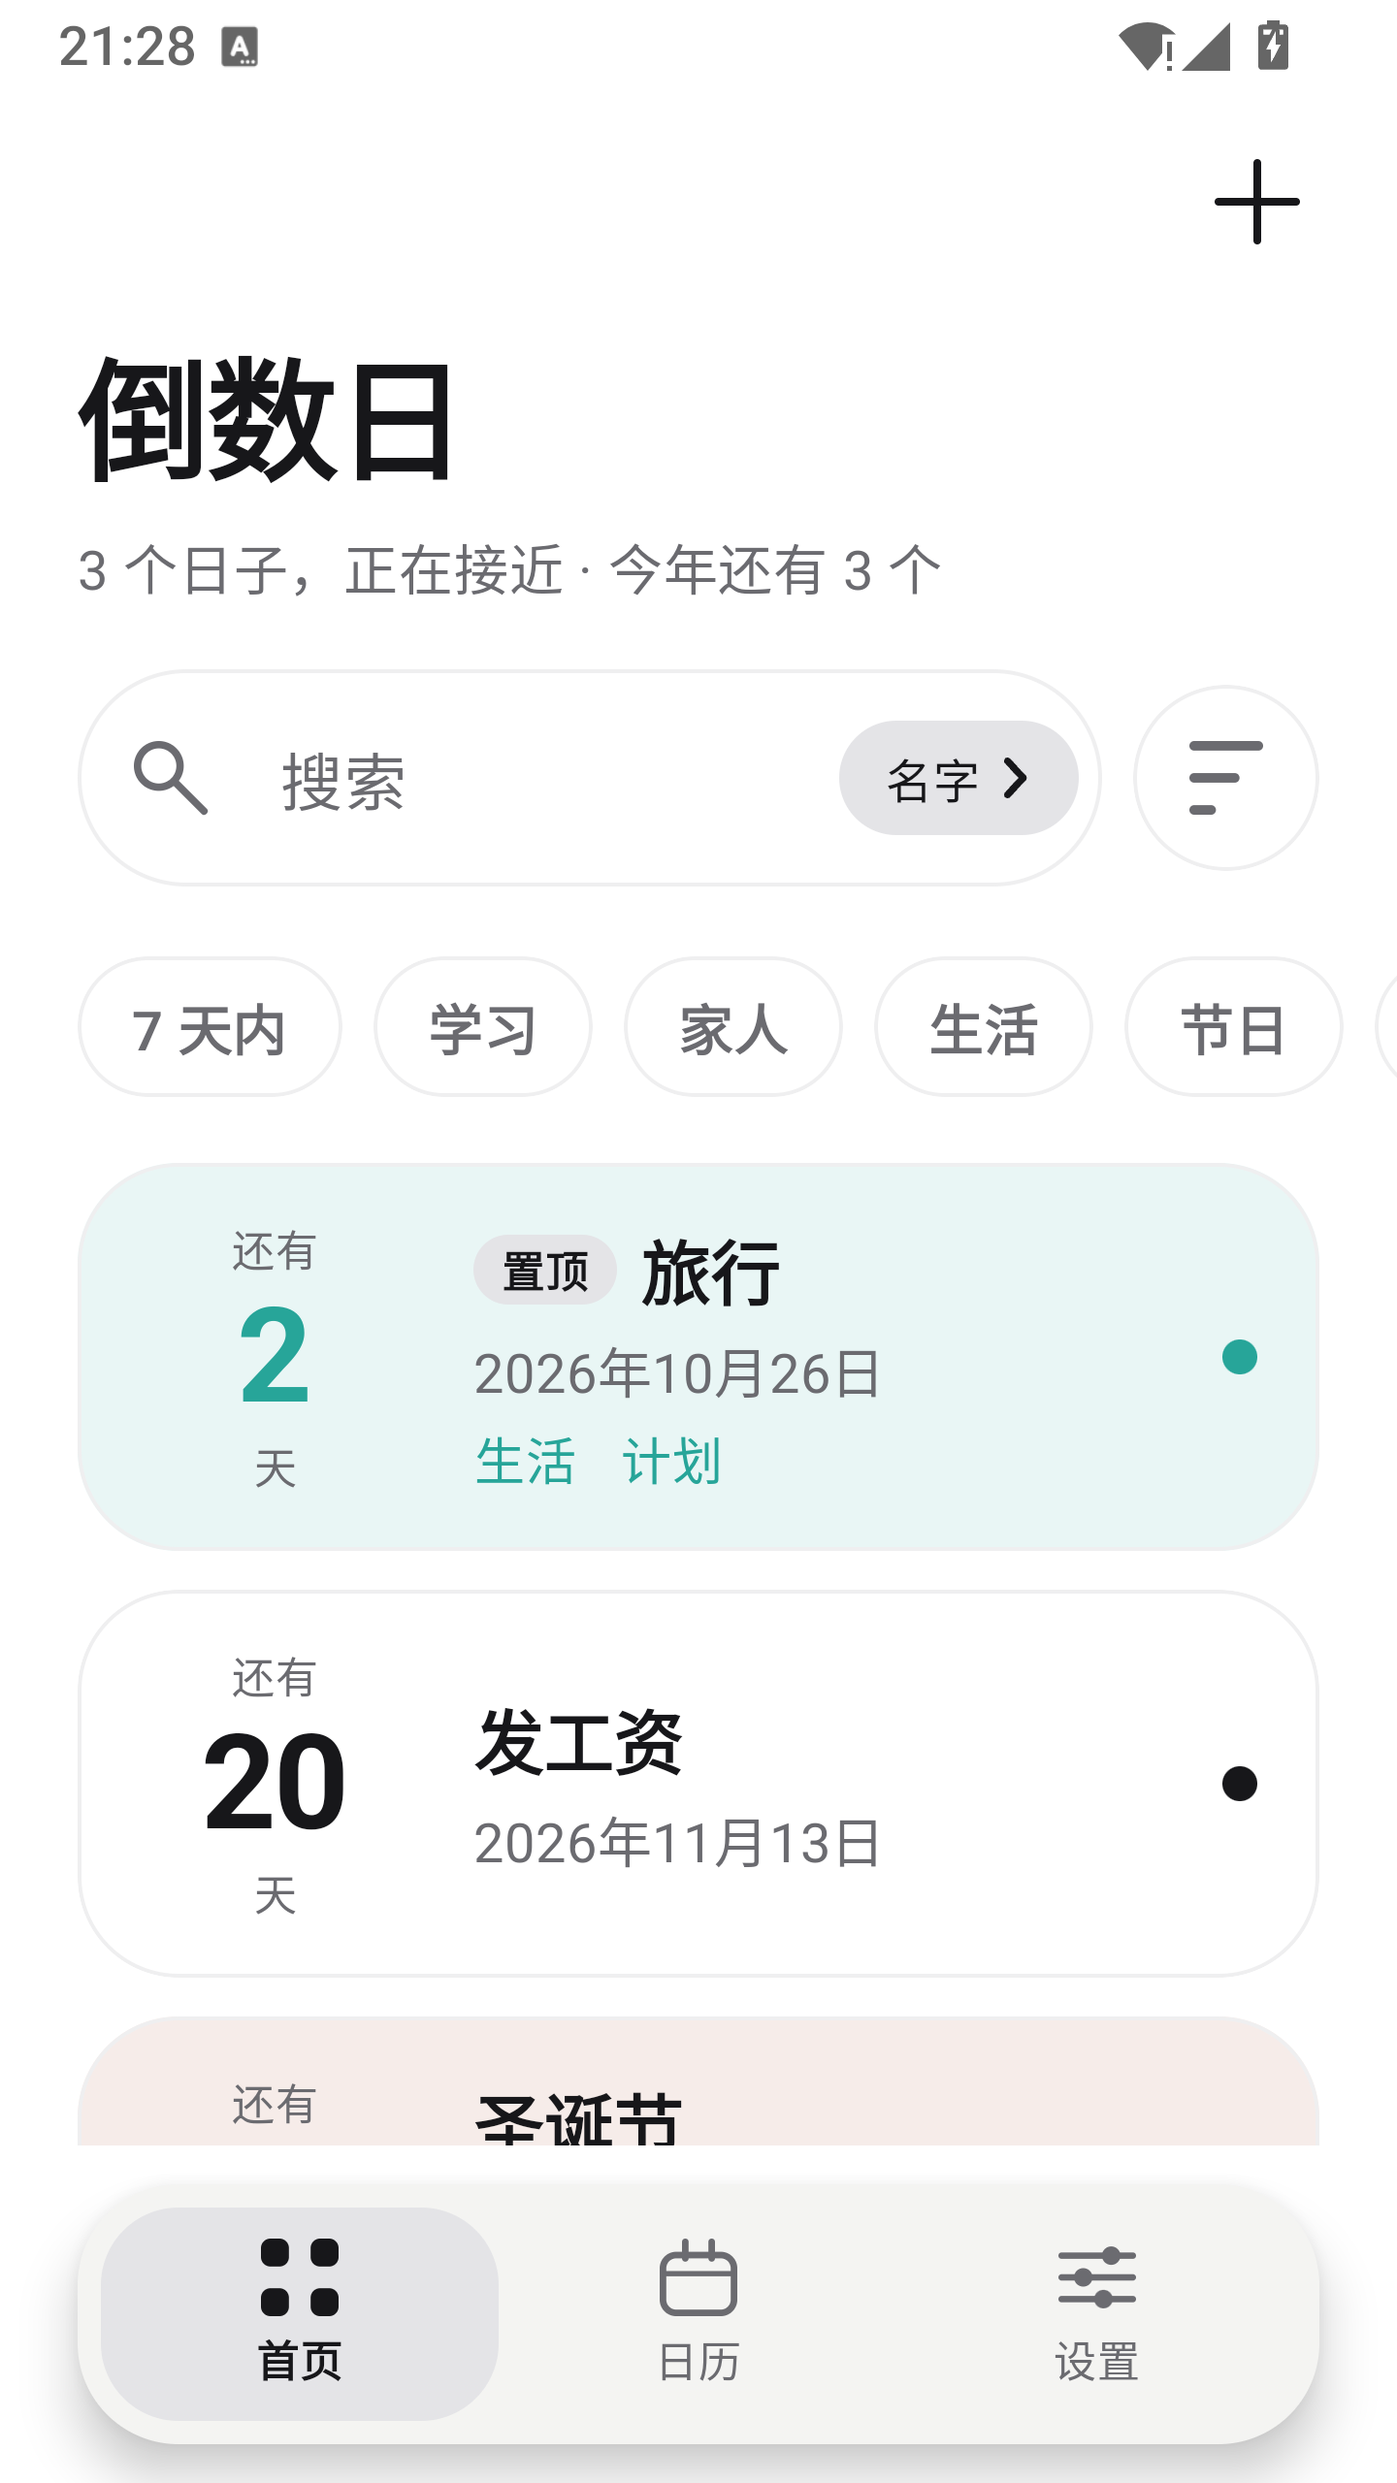
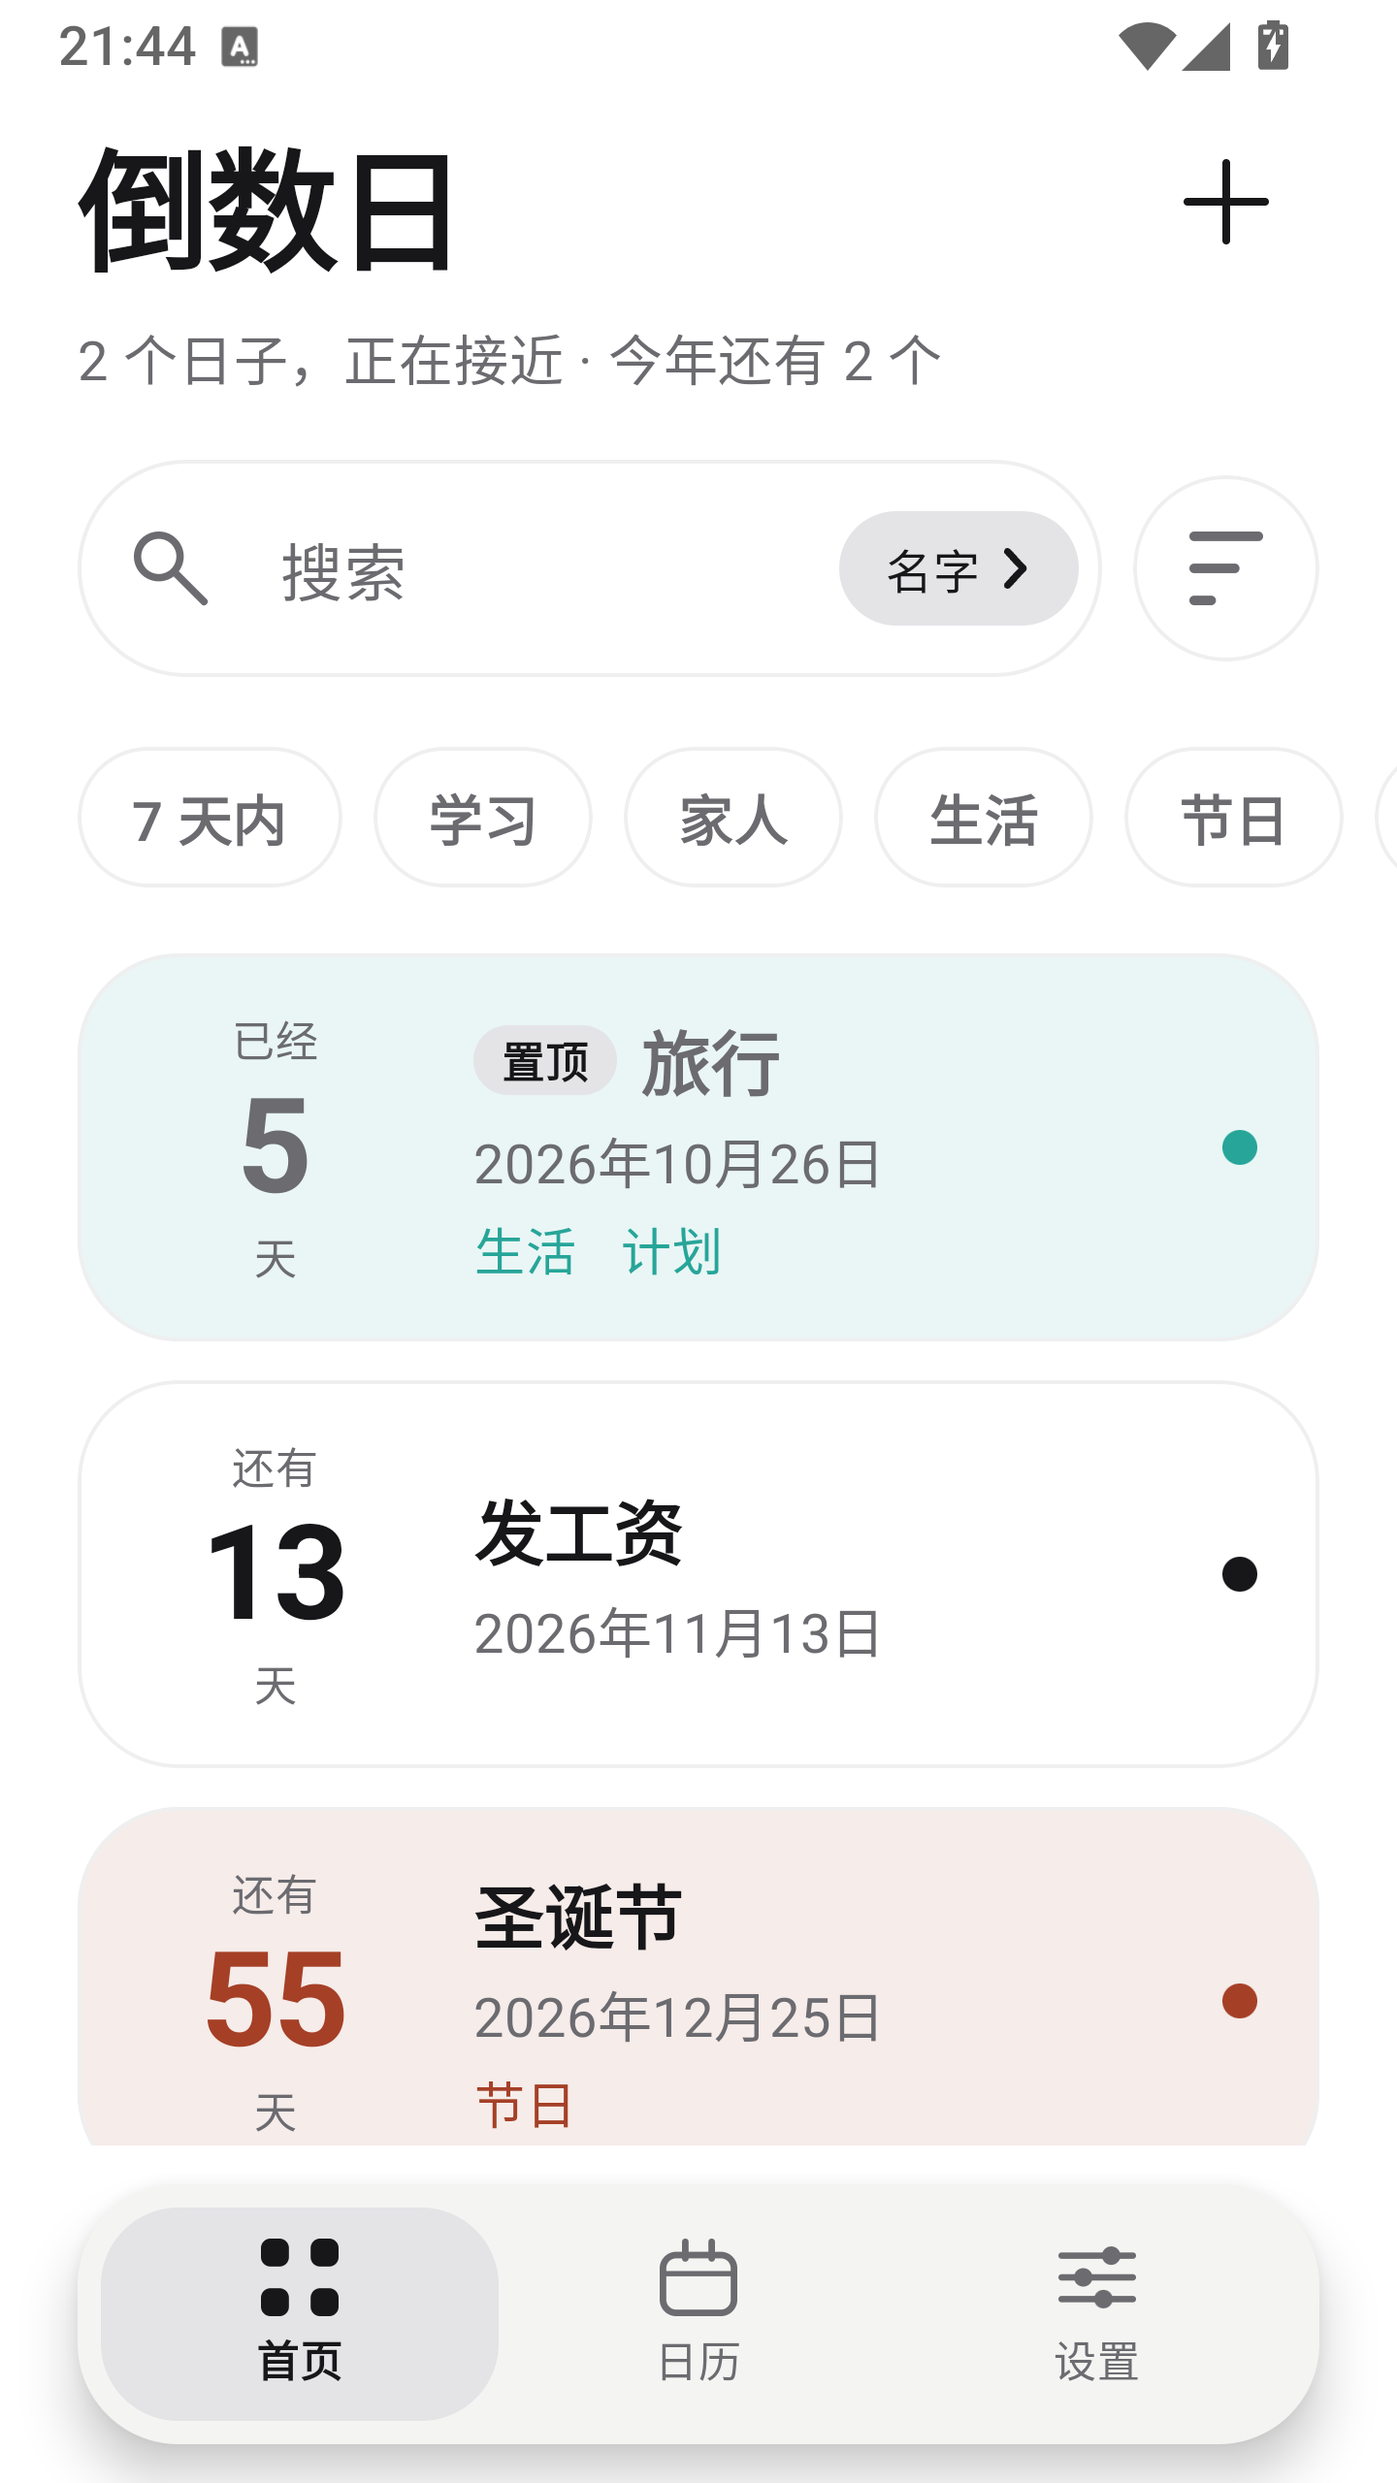
Home: start the list where the system bars end
The home title lives in the content, so the only thing its title bar held was the add button. Moving the button beside the title lets the list start at the status bar instead of behind an empty 56dp strip; the detail and editor screens keep their bar because it carries the back button and the name.

diff --git a/app/src/main/java/io/github/zzpby/tickcount/ui/TickCountApp.kt b/app/src/main/java/io/github/zzpby/tickcount/ui/TickCountApp.kt
@@ -6,10 +6,15 @@ import androidx.compose.foundation.layout.Box
 import androidx.compose.foundation.layout.Column
 import androidx.compose.foundation.layout.Row
 import androidx.compose.foundation.layout.Spacer
+import androidx.compose.foundation.layout.WindowInsets
+import androidx.compose.foundation.layout.WindowInsetsSides
 import androidx.compose.foundation.layout.fillMaxSize
 import androidx.compose.foundation.layout.fillMaxWidth
+import androidx.compose.foundation.layout.only
 import androidx.compose.foundation.layout.padding
+import androidx.compose.foundation.layout.safeDrawing
 import androidx.compose.foundation.layout.width
+import androidx.compose.foundation.layout.windowInsetsPadding
 import androidx.compose.foundation.shape.RoundedCornerShape
 import androidx.compose.material3.AlertDialog
 import androidx.compose.material3.IconButton
@@ -174,59 +179,69 @@ fun TickCountApp(
 
     Scaffold(
         topBar = {
-            AppTitleBar(
-                // The home screen keeps its name for the screen itself, where it is set
-                // at display size: the bar there is only a place to put the buttons.
-                title = when {
-                    editorOpen -> stringResource(
-                        if (editorIsNew) R.string.dialog_new_title else R.string.dialog_edit_title
-                    )
-                    detailEvent != null -> detailEvent.title
-                    // These set their own name large in the content, so the bar keeps
-                    // only the buttons.
-                    screen == AppScreen.HOME ||
+            // The home screen sets its own title in the content, and its add button now
+            // sits beside that title. A bar there would be an empty 56dp strip above the
+            // list, so the screen starts as soon as the system bars allow instead.
+            val homeOwnsTheTop =
+                screen == AppScreen.HOME && !editorOpen && detailEvent == null
+            if (homeOwnsTheTop) {
+                Spacer(
+                    modifier = Modifier
+                        .fillMaxWidth()
+                        .windowInsetsPadding(
+                            WindowInsets.safeDrawing.only(
+                                WindowInsetsSides.Top + WindowInsetsSides.Horizontal
+                            )
+                        )
+                )
+            } else {
+                AppTitleBar(
+                    // The home screen keeps its name for the screen itself, where it is set
+                    // at display size: the bar there is only a place to put the buttons.
+                    title = when {
+                        editorOpen -> stringResource(
+                            if (editorIsNew) R.string.dialog_new_title else R.string.dialog_edit_title
+                        )
+                        detailEvent != null -> detailEvent.title
+                        // These set their own name large in the content, so the bar keeps
+                        // only the buttons.
                         screen == AppScreen.SETTINGS ||
-                        screen == AppScreen.REMINDERS -> null
-                    else -> stringResource(screen.labelRes)
-                },
-                // The editor and a countdown's own page are steps into something, and the
-                // screens under Settings are one level down from the list they were opened
-                // from. The three tabs have nothing above them: the bar at the foot of the
-                // window is where you go from one to another.
-                navigation = if (detailEvent != null || editorOpen || screen.isUnderSettings) {
-                    TitleBarNavigation.BACK
-                } else {
-                    TitleBarNavigation.NONE
-                },
-                onNavigate = {
+                            screen == AppScreen.REMINDERS -> null
+                        else -> stringResource(screen.labelRes)
+                    },
+                    // The editor and a countdown's own page are steps into something, and the
+                    // screens under Settings are one level down from the list they were opened
+                    // from. The three tabs have nothing above them: the bar at the foot of the
+                    // window is where you go from one to another.
+                    navigation = if (detailEvent != null || editorOpen || screen.isUnderSettings) {
+                        TitleBarNavigation.BACK
+                    } else {
+                        TitleBarNavigation.NONE
+                    },
+                    onNavigate = {
+                        when {
+                            editorOpen -> editorOpen = false
+                            detailEvent != null -> detailId = null
+                            else -> screenName = AppScreen.SETTINGS.name
+                        }
+                    },
+                    modifier = Modifier.padding(horizontal = 12.dp),
+                ) {
                     when {
-                        editorOpen -> editorOpen = false
-                        detailEvent != null -> detailId = null
-                        else -> screenName = AppScreen.SETTINGS.name
-                    }
-                },
-                modifier = Modifier.padding(horizontal = 12.dp),
-            ) {
-                when {
-                    // The editor saves from its own header row: it is a whole screen now,
-                    // and the slot here belongs to one action over a list.
-                    editorOpen -> Unit
+                        // The editor saves from its own header row: it is a whole screen now,
+                        // and the slot here belongs to one action over a list.
+                        editorOpen -> Unit
 
-                    detailEvent != null -> TextButton(onClick = { startEditEvent(detailEvent.id) }) {
-                        Text(stringResource(R.string.action_edit))
-                    }
+                        detailEvent != null -> TextButton(onClick = { startEditEvent(detailEvent.id) }) {
+                            Text(stringResource(R.string.action_edit))
+                        }
 
-                    // The order is chosen from a pill next to the search box, which is
-                    // where the list it orders can see it.
-                    screen == AppScreen.HOME -> {
-                        IconButton(onClick = { startNewEvent(today) }) { PlusIcon() }
-                    }
-
-                    // On the calendar the plus belongs to the chosen day, and
-                    // there is nothing to add to until one is chosen.
-                    screen == AppScreen.CALENDAR -> {
-                        if (calendarDate != null) {
-                            IconButton(onClick = { startNewEvent(calendarDate) }) { PlusIcon() }
+                        // On the calendar the plus belongs to the chosen day, and
+                        // there is nothing to add to until one is chosen.
+                        screen == AppScreen.CALENDAR -> {
+                            if (calendarDate != null) {
+                                IconButton(onClick = { startNewEvent(calendarDate) }) { PlusIcon() }
+                            }
                         }
                     }
                 }
@@ -293,6 +308,7 @@ fun TickCountApp(
                 screen == AppScreen.HOME -> HomeScreen(
                     entries = countdownList(events, today, settings.sortOrder),
                     today = today,
+                    onAdd = { startNewEvent(today) },
                     query = searchQuery,
                     onQueryChange = { searchQuery = it },
                     scope = searchScope,

diff --git a/app/src/main/java/io/github/zzpby/tickcount/ui/HomeScreen.kt b/app/src/main/java/io/github/zzpby/tickcount/ui/HomeScreen.kt
@@ -17,6 +17,7 @@ import androidx.compose.foundation.layout.width
 import androidx.compose.foundation.lazy.LazyColumn
 import androidx.compose.foundation.lazy.items
 import androidx.compose.foundation.rememberScrollState
+import androidx.compose.material3.IconButton
 import androidx.compose.material3.MaterialTheme
 import androidx.compose.material3.Text
 import androidx.compose.material3.TextButton
@@ -39,6 +40,7 @@ import io.github.zzpby.tickcount.domain.SearchScope
 import io.github.zzpby.tickcount.domain.SortOrder
 import io.github.zzpby.tickcount.domain.matchesQuery
 import io.github.zzpby.tickcount.domain.searchText
+import io.github.zzpby.tickcount.ui.components.PlusIcon
 import io.github.zzpby.tickcount.ui.components.rememberDateFormatter
 import io.github.zzpby.tickcount.ui.theme.Gutter
 import io.github.zzpby.tickcount.ui.theme.hairline
@@ -59,6 +61,8 @@ import java.time.temporal.ChronoUnit
 fun HomeScreen(
     entries: List<CountdownListEntry>,
     today: LocalDate,
+    /** Adds one on [today]. It sits beside the title rather than in a bar of its own. */
+    onAdd: () -> Unit,
     query: String,
     onQueryChange: (String) -> Unit,
     scope: SearchScope,
@@ -100,7 +104,7 @@ fun HomeScreen(
         }
 
     Column(modifier = modifier.fillMaxSize()) {
-        HomeHeader(entries, today)
+        HomeHeader(entries, today, onAdd)
 
         Row(
             modifier = Modifier
@@ -197,7 +201,11 @@ fun HomeScreen(
  * empty screen says less than the empty screen's own message, which also says what to do.
  */
 @Composable
-private fun HomeHeader(entries: List<CountdownListEntry>, today: LocalDate) {
+private fun HomeHeader(
+    entries: List<CountdownListEntry>,
+    today: LocalDate,
+    onAdd: () -> Unit,
+) {
     val upcoming = entries.count { !it.isPast }
     // How many of those land in the current year, which is the time horizon most people
     // plan a birthday or a deadline against.
@@ -214,24 +222,30 @@ private fun HomeHeader(entries: List<CountdownListEntry>, today: LocalDate) {
     }
     val line = listOfNotNull(summary, yearPart).joinToString(" · ")
 
-    Column(
+    Row(
         modifier = Modifier
             .fillMaxWidth()
-            .padding(start = Gutter, end = Gutter, top = 2.dp, bottom = 16.dp),
+            .padding(start = Gutter, end = Gutter, top = 4.dp, bottom = 16.dp),
+        verticalAlignment = Alignment.Top,
     ) {
-        Text(
-            text = stringResource(R.string.app_name),
-            style = MaterialTheme.typography.displaySmall,
-            color = MaterialTheme.colorScheme.onSurface,
-        )
-        if (line.isNotEmpty()) {
-            Spacer(Modifier.height(4.dp))
+        Column(modifier = Modifier.weight(1f)) {
             Text(
-                text = line,
-                style = MaterialTheme.typography.bodyMedium,
-                color = MaterialTheme.colorScheme.onSurfaceVariant,
+                text = stringResource(R.string.app_name),
+                style = MaterialTheme.typography.displaySmall,
+                color = MaterialTheme.colorScheme.onSurface,
             )
+            if (line.isNotEmpty()) {
+                Spacer(Modifier.height(4.dp))
+                Text(
+                    text = line,
+                    style = MaterialTheme.typography.bodyMedium,
+                    color = MaterialTheme.colorScheme.onSurfaceVariant,
+                )
+            }
         }
+        // The title bar that used to hold this button was an empty strip above the list.
+        // It belongs beside the title it adds to.
+        IconButton(onClick = onAdd) { PlusIcon() }
     }
 }
 

diff --git a/app/src/main/java/io/github/zzpby/tickcount/ui/AppTitleBar.kt b/app/src/main/java/io/github/zzpby/tickcount/ui/AppTitleBar.kt
@@ -33,8 +33,12 @@ import io.github.zzpby.tickcount.ui.components.ChevronIcon
 enum class TitleBarNavigation { NONE, BACK }
 
 /**
- * The bar every screen carries: a button on the left when there is somewhere to go back to,
- * the screen's name in the middle, and whatever that screen offers on the right.
+ * The bar the screens that need one carry: a button on the left when there is somewhere to
+ * go back to, the screen's name in the middle, and whatever that screen offers on the right.
+ *
+ * The home screen leaves the bar out entirely: its name is set at display size in the content,
+ * and its add button sits beside that name, so a bar above it would be an empty strip. The
+ * screens that do use it are the ones that need a back button or a title of their own.
  *
  * There is no menu button any more: the three destinations are on the bar at the foot of the
  * window, so a button here would only repeat them. What the left slot still carries is a way
@@ -58,8 +62,9 @@ fun AppTitleBar(
     /**
      * The screen's name, or null to leave it out.
      *
-     * The home screen passes null: its name is set at display size inside the screen, and a
-     * bar repeating it in small type just above the large one says the same thing twice.
+     * The settings and reminder screens pass null: they set their own name at display size
+     * inside the screen, and a bar repeating it in small type just above the large one says
+     * the same thing twice.
      */
     title: String?,
     navigation: TitleBarNavigation,
